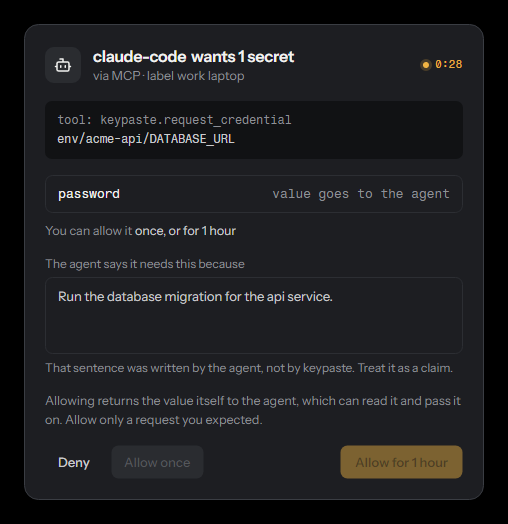
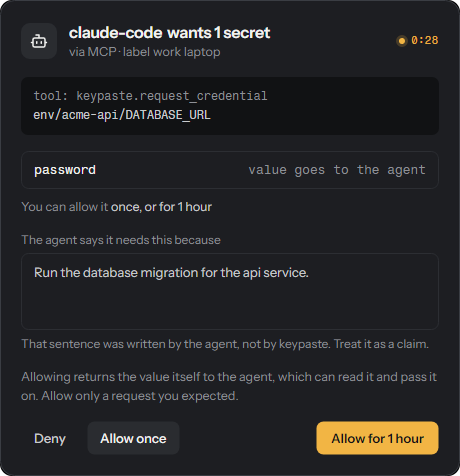
Fit sidebar projects and matrix notes; re-render README screenshots

diff --git a/src/Keypaste.App/Views/ShellView.axaml.cs b/src/Keypaste.App/Views/ShellView.axaml.cs
@@ -8,7 +8,16 @@ internal sealed partial class ShellView : UserControl
 {
     private ShellViewModel? _shell;
 
+    /// <summary>Below this height the sidebar footer gives room to the project rows.</summary>
+    private const double _shortHeight = 600;
+
     public ShellView() => AvaloniaXamlLoader.Load(this);
+
+    protected override void OnSizeChanged(SizeChangedEventArgs e)
+    {
+        base.OnSizeChanged(e);
+        Classes.Set("short", e.NewSize.Height < _shortHeight);
+    }
 
     protected override void OnDataContextChanged(EventArgs e)
     {

diff --git a/tests/Keypaste.App.Tests/Rendering/ScreenRenderer.cs b/tests/Keypaste.App.Tests/Rendering/ScreenRenderer.cs
@@ -878,6 +878,7 @@ public sealed class ScreenRenderer
             "work laptop");
         var model = new ApprovalViewModel(prompt);
         model.Tick(TimeSpan.FromSeconds(28));
+        model.Arm();
         var window = new ApprovalWindow(model);
         window.Show();
         Save(window, output, name);
